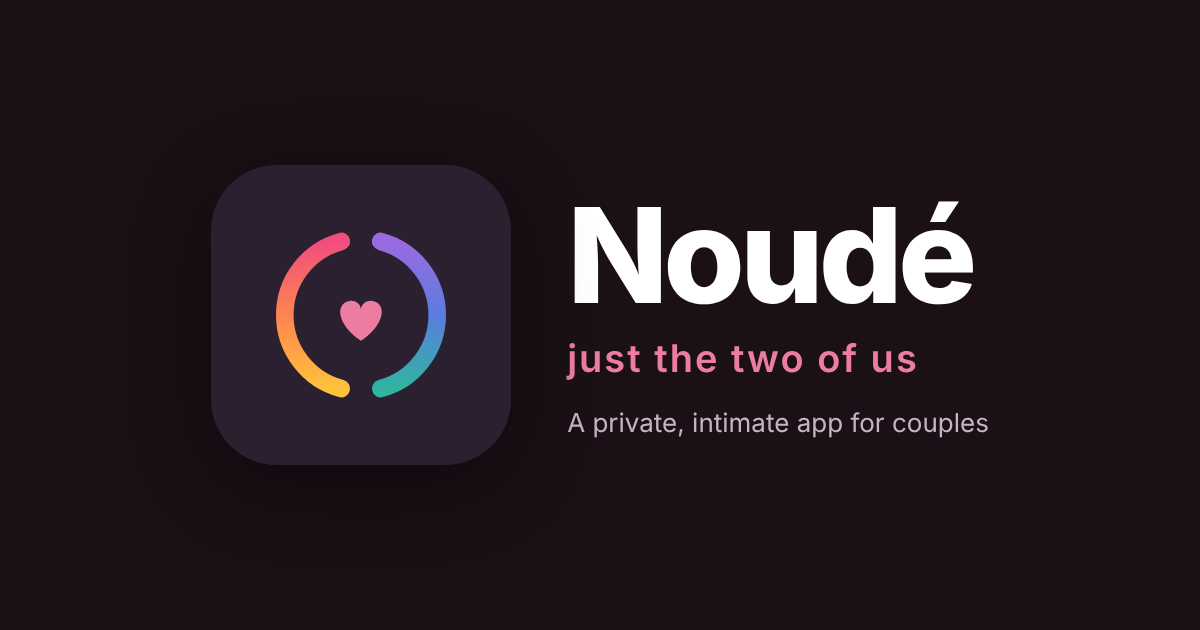
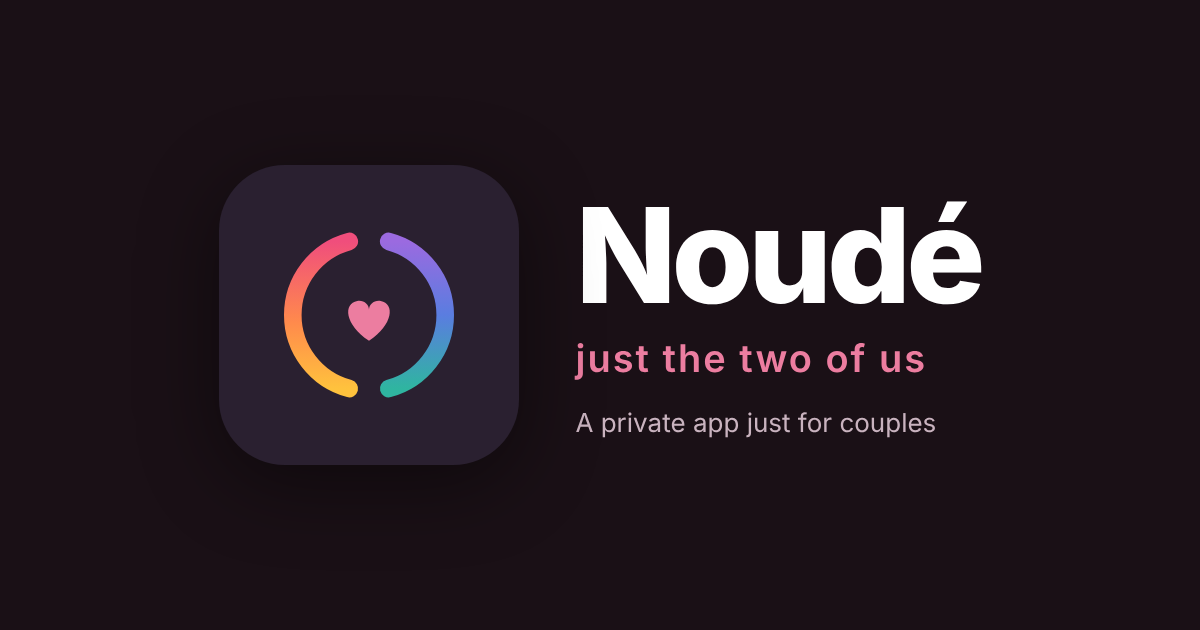
Wording: couples instead of intimate; company policy and anonymous usage data spelled out
Claude-Session: https://claude.ai/code/session_01NrLw1xUvg5kdqvpNSyiPGf

diff --git a/index.html b/index.html
@@ -4,18 +4,18 @@
 <meta charset="utf-8">
 <meta name="viewport" content="width=device-width,initial-scale=1,viewport-fit=cover">
 <title>Noudé</title>
-<meta name="description" content="Noudé · just the two of us. A private, intimate app for couples: check in on each other's mood, swap songs, stories and sweet messages, plan dates and set goals together.">
+<meta name="description" content="Noudé · just the two of us. A private couples app: check in on each other's mood, swap songs, stories and sweet messages, plan dates and set goals together.">
 <meta property="og:type" content="website">
 <meta property="og:site_name" content="Noudé">
 <meta property="og:title" content="Noudé · just the two of us">
-<meta property="og:description" content="A private, intimate app for couples. Invite only, in private beta.">
+<meta property="og:description" content="A private app just for couples. Invite only, in private beta.">
 <meta property="og:url" content="https://noudeapp.com/">
-<meta property="og:image" content="https://noudeapp.com/og-image.png">
+<meta property="og:image" content="https://noudeapp.com/og-image.png?v=2">
 <meta property="og:image:width" content="1200">
 <meta property="og:image:height" content="630">
 <meta property="og:image:alt" content="Noudé logo: two halves turned toward each other with a heart in the middle">
 <meta name="twitter:card" content="summary_large_image">
-<meta name="twitter:image" content="https://noudeapp.com/og-image.png">
+<meta name="twitter:image" content="https://noudeapp.com/og-image.png?v=2">
 <meta name="theme-color" content="#c23d68">
 <link rel="manifest" href="manifest.webmanifest">
 <meta name="apple-mobile-web-app-capable" content="yes">
@@ -924,7 +924,7 @@ details.pl summary{cursor:pointer;font-weight:600}
           <h3>Good to know</h3>
           <ul class="small">
             <li><b>Your personal link is your key.</b> Keep it private, and turn on the Privacy lock.</li>
-            <li><b>We never look at your content.</b> It's against our policy to open or view your photos, videos, messages or check-ins. The only data we look at is anonymous: usage counts, error reports and feedback you choose to send.</li><li><b>A note for the beta.</b> Your data is stored securely on Google's servers. While we're in beta, we recommend not sending explicit photos or videos.</li>
+            <li><b>We never look at your content.</b> It's against company policy to view any member's data, such as photos, videos, messages and check-ins. The only data collected is anonymous usage data, such as how many couples check in, which features get used and how long people spend in the app. Error reports and feedback you choose to send are the only other things we see.</li><li><b>A note for the beta.</b> Your data is stored securely on Google's servers. While we're in beta, we recommend not sending explicit photos or videos.</li>
           </ul>
           <div class="pdel">
             <h3>Leave Noudé and delete my data</h3>
@@ -1004,7 +1004,7 @@ details.pl summary{cursor:pointer;font-weight:600}
 <div class="sheet" id="welcome" hidden>
   <div class="inner" style="justify-content:center">
     <div class="stack" style="gap:10px"><svg class="wlogo" width="72" height="72" viewBox="0 0 512 512" role="img" aria-label="Noudé logo"><defs><linearGradient id="wlw" x1="0" y1="0" x2="0" y2="1"><stop offset="0" stop-color="#f04e7c"/><stop offset="0.55" stop-color="#ff8a4c"/><stop offset="1" stop-color="#ffc23d"/></linearGradient><linearGradient id="wlc" x1="0" y1="1" x2="0" y2="0"><stop offset="0" stop-color="#2fb5a0"/><stop offset="0.5" stop-color="#5a7de0"/><stop offset="1" stop-color="#9b6ae0"/></linearGradient></defs><rect width="512" height="512" rx="112" fill="#2a2030"/><path d="M222.4 130.4 A130 130 0 0 0 222.4 381.6" fill="none" stroke="url(#wlw)" stroke-width="30" stroke-linecap="round"/><path d="M289.6 130.4 A130 130 0 0 1 289.6 381.6" fill="none" stroke="url(#wlc)" stroke-width="30" stroke-linecap="round"/><path d="M256 300 C 214 272, 212 236, 236 232 C 247 230, 256 238, 256 247 C 256 238, 265 230, 276 232 C 300 236, 298 272, 256 300 Z" fill="#ec7da0"/></svg><span class="eyebrow">Welcome to</span><h1 class="brand">Noudé</h1><p class="tagline">just the two of us</p>
-    <p class="muted">A private, intimate social app for the two of you: check in on each other's mood, swap songs, stories and sweet messages, plan dates and set goals together.</p></div>
+    <p class="muted">A private couples social app for the two of you: check in on each other's mood, swap songs, stories and sweet messages, plan dates and set goals together.</p></div>
     <div class="card stack unlockc" id="unlockCard" hidden>
       <h3>🔑 Joining your partner?</h3>
       <p class="small muted">This space hasn't been added to the beta yet. Enter a beta invite code to unlock it. Your partner keeps everything they've already set up.</p>
@@ -3894,7 +3894,7 @@ const HELP=[
   ["aiboth","Why do we both have to turn it on?","AI ideas read both of your check-ins, so each person decides for themselves. Until you both turn it on, it stays off.",["me","aiCard"],"Open AI settings"],
   ["week","When is the weekly summary written?","On Sundays, once you've had at least 3 check-ins that week. You can also tap to write it early."]]},
  {g:"privacy",t:"Privacy & your data",ic:"🔒",items:[
-  ["seedata","Can anyone see our stuff?","The app never shows what you write or share to anyone but you two. Your data is never shared or sold, and it's against our policy to open or view your photos, messages or check-ins. The only data we look at is anonymous, like how many couples checked in today. While we're in beta, we recommend not sending explicit photos or videos.",["me","secPriv"],"Privacy & your data"],
+  ["seedata","Can anyone see our stuff?","The app never shows what you write or share to anyone but you two. Your data is never shared or sold, and it's against company policy to view any member's data, such as photos, videos, messages and check-ins. The only data collected is anonymous usage data, such as how many couples check in, which features get used and how long people spend in the app. While we're in beta, we recommend not sending explicit photos or videos.",["me","secPriv"],"Privacy & your data"],
   ["wherestored","Where is our data stored?","On Google's Firebase cloud, encrypted in transit and at rest. Noudé never collects your email, phone number, location, contacts or payment details."],
   ["linkkey","Who else can get into our space?","Only someone with your personal link. Keep it private, and turn on the Privacy lock so even someone with the link needs your 6-digit code.",["me","lockCard"],"Set a passcode"],
   ["aiprivacy","Does AI read our messages?","No. AI ideas are off unless you both turn them on. Even then it only uses check-ins and About me answers, never chat or photos, and the AI provider doesn't train on it."],
@@ -4635,7 +4635,7 @@ async function ensureAccess(code,isNew){
 function genCode(){const A2="ABCDEFGHJKMNPQRSTUVWXYZ23456789",b=new Uint8Array(6);crypto.getRandomValues(b);return"US-"+[...b].map(x=>A2[x%A2.length]).join("")}
 let codesUnsub=null,codesList=[],codesErr=false;
 const appLink=()=>location.origin+location.pathname;
-function codeMsg(c){return `💞 You're invited to Noudé, a private, intimate social app just for the two of you.
+function codeMsg(c){return `💞 You're invited to Noudé, a private couples social app just for the two of you.
 
 Check in on each other's mood in 30 seconds, swap songs, stories and sweet messages, plan date nights, set goals together, and never miss a birthday again. 🎶📸💌
 
@@ -4644,7 +4644,7 @@ Your code: ${c.id} (works once)
 2. Enter the code and tap Start our space
 3. Send your partner their invite from About me
 
-🔒 Heads up: Noudé is in beta. Your space is private to the two of you, and your data is never shared or sold. It's against our policy to open or view your photos, messages or check-ins. The only data we look at is anonymous usage counts. While we're in beta, we recommend not sending explicit photos or videos.
+🔒 Heads up: Noudé is in beta. Your space is private to the two of you, and your data is never shared or sold. It's against company policy to view any member's data, such as photos, videos, messages and check-ins. The only data collected is anonymous usage data, such as how many couples check in, which features get used and how long people spend in the app. While we're in beta, we recommend not sending explicit photos or videos.
 
 Tell us what you think!`}
 async function shareCode(c){
@@ -4957,7 +4957,7 @@ window.addEventListener("hashchange",()=>{if(/^#join=/.test(location.hash))locat
 const START_ITEM=(location.hash.match(/#item=([\w-]{4,40})/)||[])[1]||"";
 const START_CHAT=/#chat\b/.test(location.hash),START_MIDDAY=/#midday\b/.test(location.hash),START_STORY=/#story\b/.test(location.hash);let pendingStory=START_STORY;
 /* ---- Update check: shows a banner when a newer version is live ---- */
-const APP_VERSION="2026-10-18.32";
+const APP_VERSION="2026-10-18.33";
 let updLast=0;
 async function checkUpdate(){
   if(Date.now()-updLast<60000)return;updLast=Date.now();

diff --git a/Us Today new.html b/Us Today new.html
@@ -1,7 +1,7 @@
 <!doctype html>
 <html lang="en"><head><meta charset="utf-8"><meta name="viewport" content="width=device-width,initial-scale=1">
 <title>Noudé</title>
-<!-- Moved. Older open copies of the app read this line to know an update is ready: const APP_VERSION="2026-10-18.32" -->
+<!-- Moved. Older open copies of the app read this line to know an update is ready: const APP_VERSION="2026-10-18.33" -->
 <script>location.replace("./"+location.search+location.hash)</script>
 <meta http-equiv="refresh" content="0;url=./">
 <style>body{font-family:system-ui,sans-serif;background:#16131a;color:#f4eef6;display:grid;place-items:center;min-height:100vh;margin:0}a{color:#f08bb0}</style>

diff --git a/noude.html b/noude.html
@@ -1,7 +1,7 @@
 <!doctype html>
 <html lang="en"><head><meta charset="utf-8"><meta name="viewport" content="width=device-width,initial-scale=1">
 <title>Noudé</title>
-<!-- Moved. Older open copies of the app read this line to know an update is ready: const APP_VERSION="2026-10-18.32" -->
+<!-- Moved. Older open copies of the app read this line to know an update is ready: const APP_VERSION="2026-10-18.33" -->
 <script>location.replace("./"+location.search+location.hash)</script>
 <meta http-equiv="refresh" content="0;url=./">
 <style>body{font-family:system-ui,sans-serif;background:#16131a;color:#f4eef6;display:grid;place-items:center;min-height:100vh;margin:0}a{color:#f08bb0}</style>
